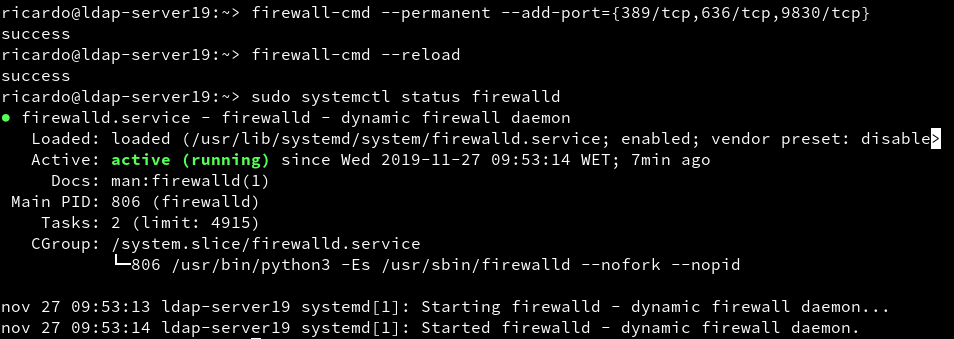
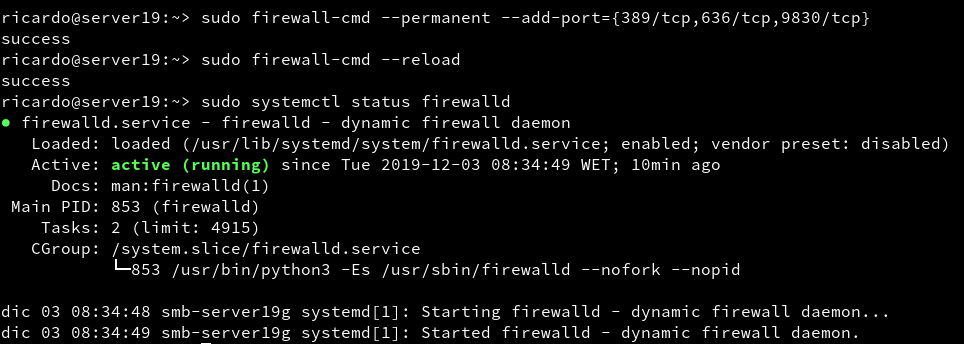
unidad 4 actividad 1

Changed region(s): [[0.0, 0.0, 1.0, 0.826], [0.0, 0.885, 0.9119, 1.0]]

diff --git a/u4/a1/README.md b/u4/a1/README.md
@@ -3,7 +3,7 @@
 ## 1. Prerequisitos
 ### 1.1. Nombre de Equipo FQDN
 
-- Configuramos la máquina dandole el hostname ldap-***server19.curso1920*** y configuramos el fichero `/etc/hosts`
+- Configuramos la máquina dandole el hostname ***server19.curso1920*** y configuramos el fichero `/etc/hostname` y `/etc/hosts` y comprobamos.
 
 ![](img/nombre_de_equipo_fqdn.png)
 
@@ -13,21 +13,17 @@ Ahora abriremos los puertos necesarios para la práctica.
 
 ![](img/abriendo_puertos.png)
 
-## 2. Instalar el Servidor
-### 2.1. Información
+## 2. Instalar el Servidor LDAP
+### 2.1 Instalación del paquete
 
+Instalamos el script para instalar luego el LDAP.
 
+![](img/instalando_el_script.png)
 
-### 2.2. Script de Perl
-
-Primero vamos a instalar la herramienta necesaria.
-
-![](img/instalando.png)
-
-Ahora vamos a configurar con el script para poder usar LDAP.
+Ahora ejecutaremos el script para instalar LDAP.
 
 ~~~
-ldap-server19:/usr/sbin # setup-ds.pl
+server19:~ # /usr/sbin/setup-ds.pl
 
 ==============================================================================
 This program will set up the 389 Directory Server.
@@ -61,7 +57,7 @@ Choose a setup type [2]: 2
 
 ==============================================================================
 Enter the fully qualified domain name of the computer
-on which you are setting up server software. Using the form
+on which you're setting up server software. Using the form
 <hostname>.<domainname>
 Example: eros.example.com.
 
@@ -74,7 +70,7 @@ with the following command line option to specify the hostname:
 
     General.FullMachineName=your.hostname.domain.name
 
-Computer name [ldap-server19.curso1920]: ldap-server19.curso1920
+Computer name [server19]: server19.curso1920
 
 ==============================================================================
 The server must run as a specific user in a specific group.
@@ -87,8 +83,8 @@ If you have not yet created a user and group for the server,
 create this user and group using your native operating
 system utilities.
 
-System User [dirsrv]:
-System Group [dirsrv]:
+System User [dirsrv]: dirsrv
+System Group [dirsrv]: dirsrv
 
 ==============================================================================
 The standard directory server network port number is 389.  However, if
@@ -97,7 +93,7 @@ default value will be a random unused port number greater than 1024.
 If you want to use port 389, make sure that you are logged in as the
 superuser, that port 389 is not in use.
 
-Directory server network port [389]:
+Directory server network port [389]: 389
 
 ==============================================================================
 Each instance of a directory server requires a unique identifier.
@@ -105,7 +101,7 @@ This identifier is used to name the various
 instance specific files and directories in the file system,
 as well as for other uses as a server instance identifier.
 
-Directory server identifier [ldap-server19]:
+Directory server identifier [server19]: ldap19
 
 ==============================================================================
 The suffix is the root of your directory tree.  The suffix must be a valid DN.
@@ -116,7 +112,7 @@ Setup will create this initial suffix for you,
 but you may have more than one suffix.
 Use the directory server utilities to create additional suffixes.
 
-Suffix [dc=curso1920]:
+Suffix [dc=curso1920]: dc=ldap19,dc=curso1920
 
 ==============================================================================
 Certain directory server operations require an administrative user.
@@ -126,53 +122,107 @@ You will also be prompted for the password for this user.  The password must
 be at least 8 characters long, and contain no spaces.
 Press Control-B or type the word "back", then Enter to back up and start over.
 
-Directory Manager DN [cn=Directory Manager]: cn=admin
+Directory Manager DN [cn=Directory Manager]: cn=Directory Manager
 Password:
 Password (confirm):
-
-Your new DS instance 'ldap-server19' was successfully created.
+Traceback (most recent call last):
+  File "/usr/sbin/ds_selinux_enabled", line 16, in <module>
+    import selinux
+ImportError: No module named selinux
+Your new DS instance 'ldap19' was successfully created.
 Exiting . . .
-
+Log file is '/tmp/setupif75ee.log'
 ~~~
 
-### 2.3. Comprobamos el servicio
+### 2.2. Comprobamos el servicio
 
 - Habilitamos el servicio para que inicie al iniciar el equipo y comprobamos si esta activo.
 
-![](img/habilitando_comprobando_servicio.png)
-
-- Comprobamos si el "demonio" esta en ejecución.
-
-![](img/comprobando_demonio.png)
+![](img/comprobando_el_servicio.png)
 
 - Comprobamos si LDAP es accesible desde la red.
 
 ![](img/accesible_red.png)
 
-## 3. Browser LDAP
-### 3.1. Instalar Browser LDAP
+### 2.3. Comprobamos el acceso al contenido LDAP
+
+Comprobamos el acceso al contenido
+
+![](img/Comprobando_acceso_contenido_LDAP.png)
+
+## 3. Añadir usuarios LDAP por comandos
+### 3.1. Buscar Unidades Organizativas
+
+Comprobamos que esten creadas las OU People y Groups.
+
+![](img/comprobando_unidades_organizativas.png)
+
+### 3.2. Agregar usuarios
+
+Para agregar usuarios en `LDAP` tenemos que usar los ficheros `LDIF` para ello vamos a crear un fichero `LDIF` para un usuario llamado Mazinger.
+
+![](img/ldif_mazinger.png)
+
+Ahora vamos a agregarlo a la base de datos.
+
+![](img/agregando_ldif_mazinger.png)
+
+### 3.3. Comprobar el nuevo usuario
+
+Vamos a comprobar que el usuario se ha creado correctamente.
+
+![](img/comprobar_mazinger.png)
 
 
+> ***Eliminar usuario del árbol del directorio***
+> * Creamos un fichero Mazinger-delete.ldif
+>
+> ![](img/ldif_mazinger_delete.png)
+>
+> * Ahora como en la creación ejecutaremos el fichero.
+>
+> ![](img/eliminando_ldif_mazinger.png)
 
-### 3.2. Crear usuario y grupos dentro del LDAP
+## 4. Contraseñas Encriptadas
 
+### 4.1. Herramienta slappasswd
 
+Esta herramienta la usaremos para generar contraseñas encriptadas para nuestros usuarios de LDAP.
 
-## 4. Cliente para autenticación LDAP
-### 4.1. Preparativos.
+![](img/contraseñas_encriptadas.png)
 
+Su uso es muy sencillo, pondremos la contraseña y nos generara la contraseña encriptada, la copiaremos y la pegaremos en el archivo `LDIF` de creación de usuario indicando el método de encriptado(el método de encriptado viene al principio de la contraseña entre llaves.).
 
+### 4.2. Agregar más usuarios
 
-### 4.2. Comprobación
+Vamos a crear 3 nuevos usuarios en LDAP con clave encriptada usando el método anterior.
 
+Crearemos los siguientes usuarios:
 
+|Full Name|Login Acount|uid|
+|---------|------------|---|
+|Kojo Kabuto|koji|2002|
+|Boss|boss|2003|
+|Doctor Infierno|drinfierno|2004|
 
-### 4.3. Instalar y configurar autenticación
+- Primero crearemos los archivos `LDIF` de los usuarios con las características anteriores.
 
+- Koji
 
+![](img/ldif_koji.png)
 
-### 4.4. Comprobamos desde el Cliente
+- Boss
 
+![](img/ldif_boss.png)
 
+- Doctor Infierno
 
-## 5. Autenticación
+![](img/ldif_drinfierno.png)
+
+Una vez creados los ficheros `LDIF` agregaremos los usuarios.
+
+![](img/añadiendo_usuarios.png)
+
+Ahora comprobamos desde un cliente que los usuarios se han creado correctamente.
+
+![](img/comprobando_usuarios_cliente.png)
